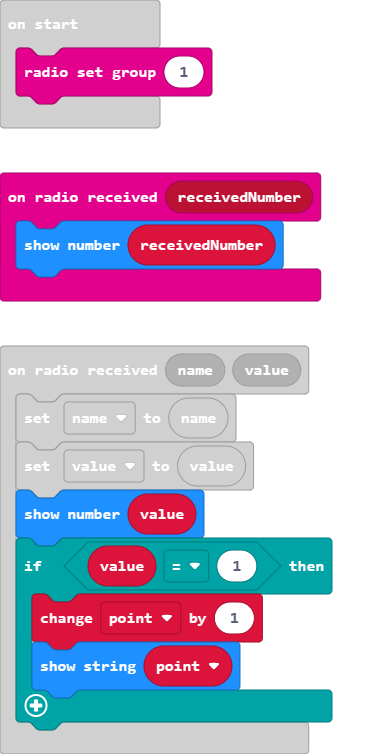
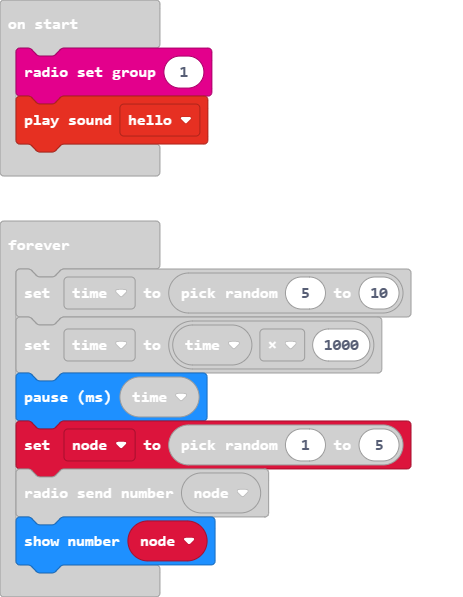
Update main.blocks, main.ts

diff --git a/main.ts b/main.ts
@@ -23,11 +23,12 @@ let time = 0
 let node = 0
 let point = 0
 radio.setGroup(1)
+soundExpression.hello.play()
 basic.forever(function () {
     time = randint(5, 10)
     time = time * 1000
     basic.pause(time)
-    soundExpression.hello.play()
     node = randint(1, 5)
     radio.sendNumber(node)
+    basic.showNumber(node)
 })
